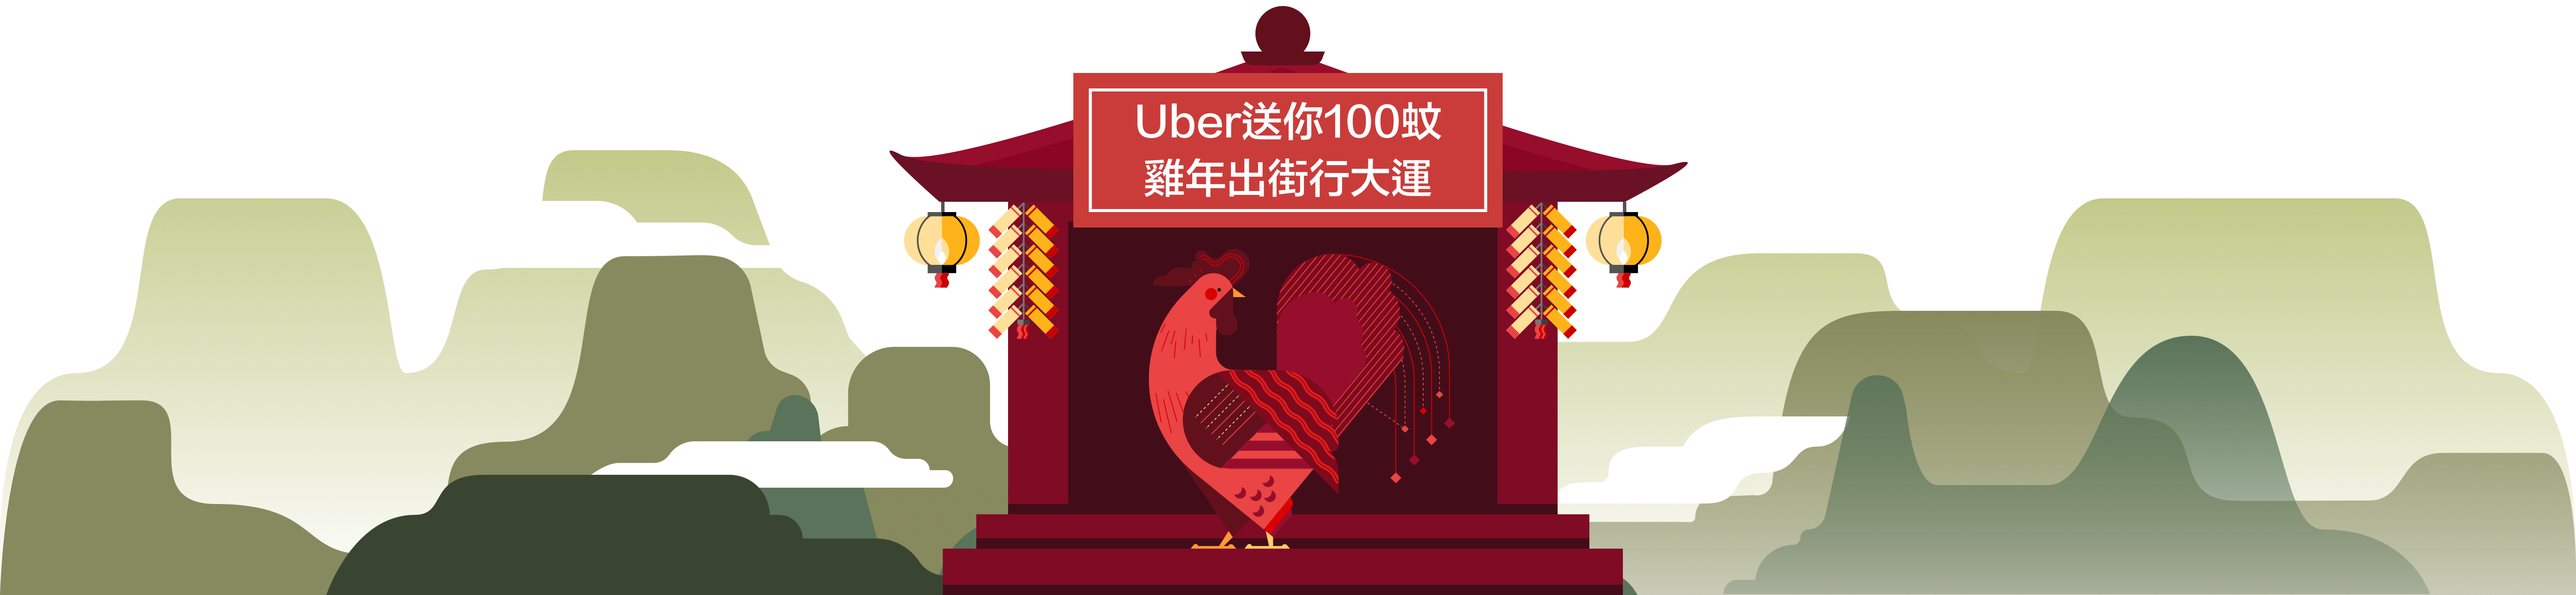
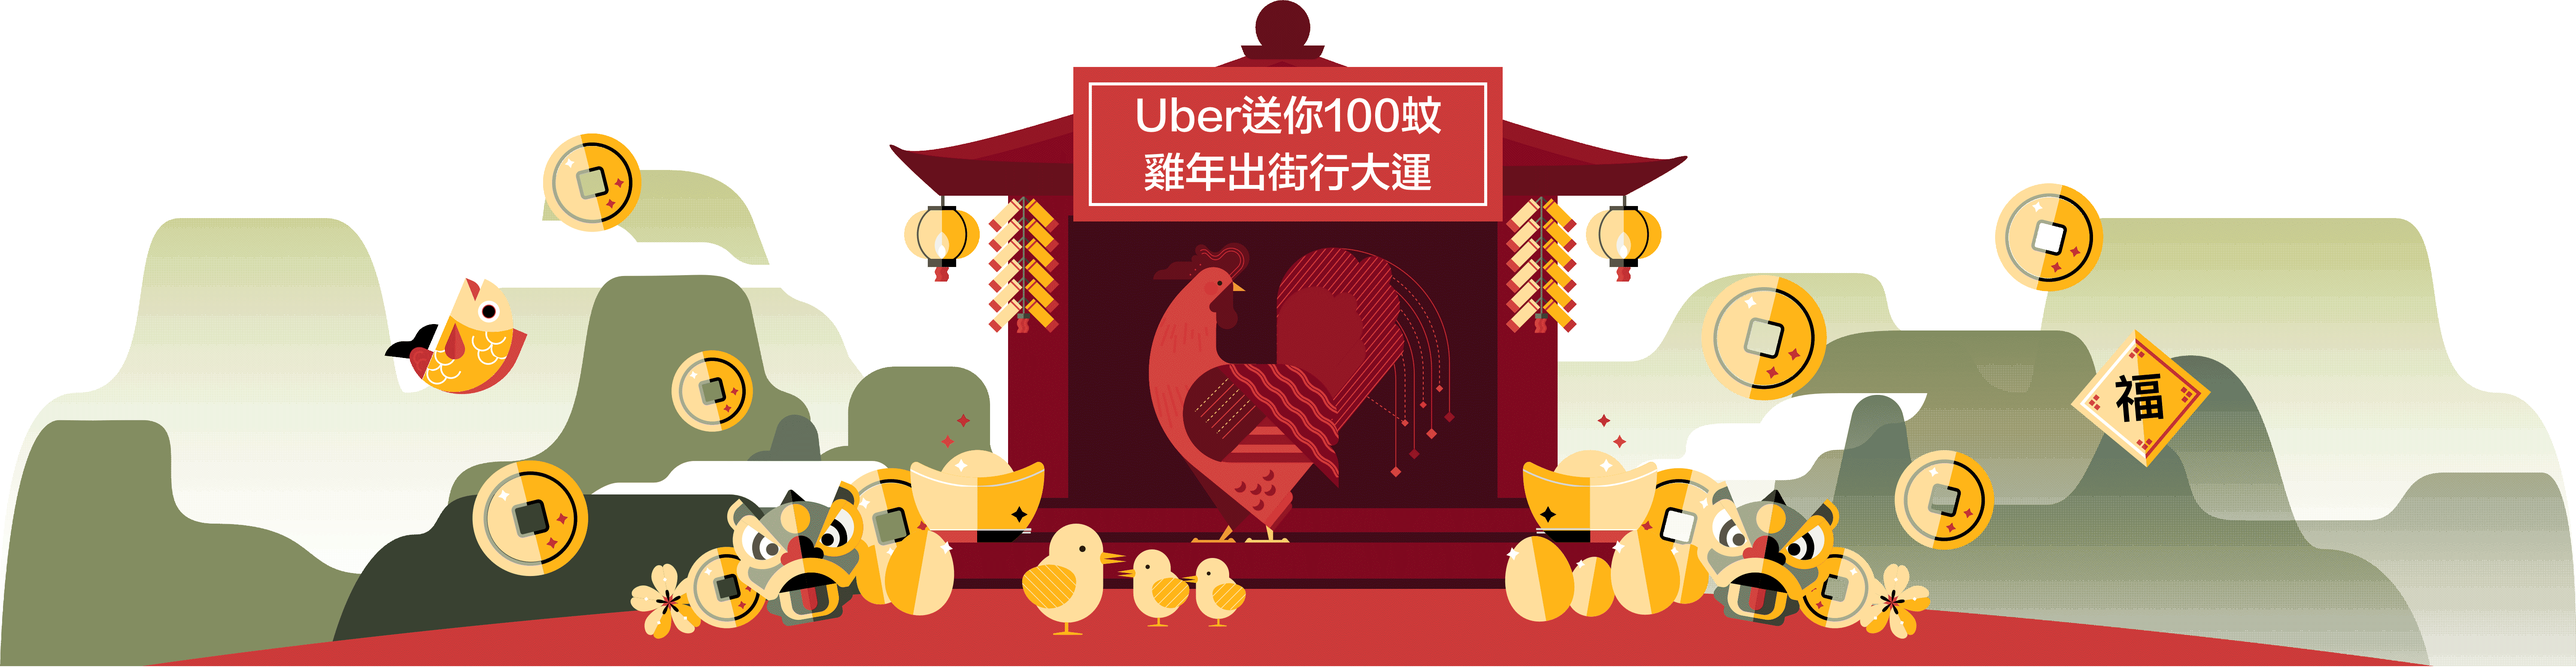
update cover

diff --git a/index.html b/index.html
@@ -8,7 +8,7 @@
     <meta name="format-detection" content="telephone=no">
     <meta name="google-site-verification" content="b9wTtHPbQL_Z1UfDYa4O3HyEyxS_8TJN5Mo5qGds9AI" />
 
-    <title>Uber Hong Kong</title>
+    <title>Uber Hong Kong | Chinese New Year 2017</title>
     <meta name="description" content="We’re finding better ways for cities to move, work, and thrive. Download the app  and get a ride in minutes. Or become a driver and earn money on your schedule.">
 
     <link rel="canonical" href="https://ubercny.com" />
@@ -31,21 +31,25 @@
         height: 160px;
       }
       .background {
-        height: 368px;
+        height: 413px;
         background-position: center top;
         background-size: 1600px auto;
         background-repeat: no-repeat;
         background-image: url('./img/scene@2x.png');
       }
       @media (max-width: 540px) {
-        .background { height: 277px; background-size: 1200px auto; }
+        .background { height: 308px; background-size: 1200px auto; }
       }
       @media (max-width: 420px) {
-        .background { height: 220px; background-size: 960px auto; }
+        .background { height: 245px; background-size: 960px auto; }
       }
       a.unhyper, a.unhyper:hover, a.unhyper:focus {
         color: #000;
         text-decoration: none;
+      }
+      .slogan {
+        display: inline-block;
+        max-width: 680px;
       }
     </style>
   </head>
@@ -63,8 +67,8 @@
     <div style="background-color:#c93c39;color:#fff;min-height:1000px;">
       <div class="container">
         <div class="row">
-          <div class="col-12">
-            Hi
+          <div class="col col-12 text-center py-5">
+            <h5 class="slogan px-3 text-center">唔駛再等啦，年廿七就有利市收！今個農曆新年，如果你仲未係 Uber 乘客嘅話，我哋會送你一程 Hong Kong$100 免費車程，畀你體驗最安全、方便又舒適嘅乘車服務！<h5>
           </div>
         </div>
       </div>
